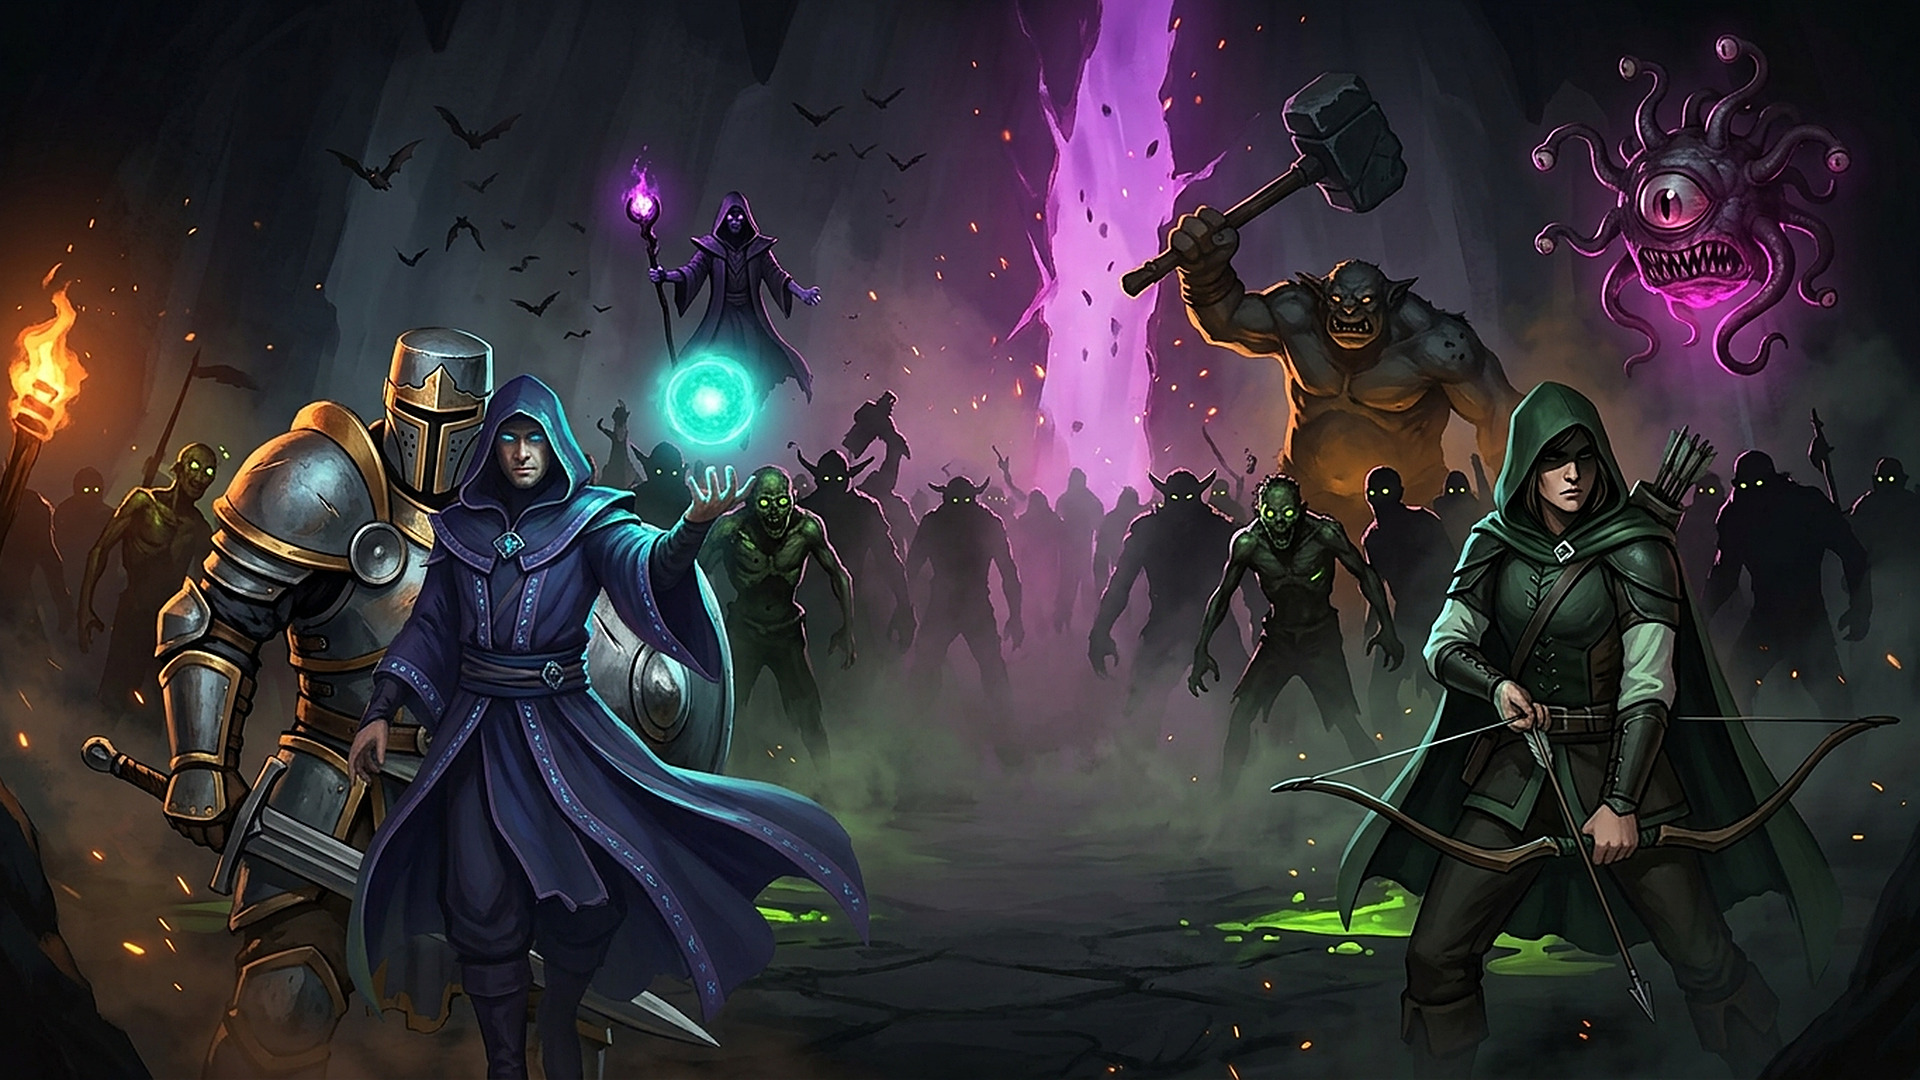
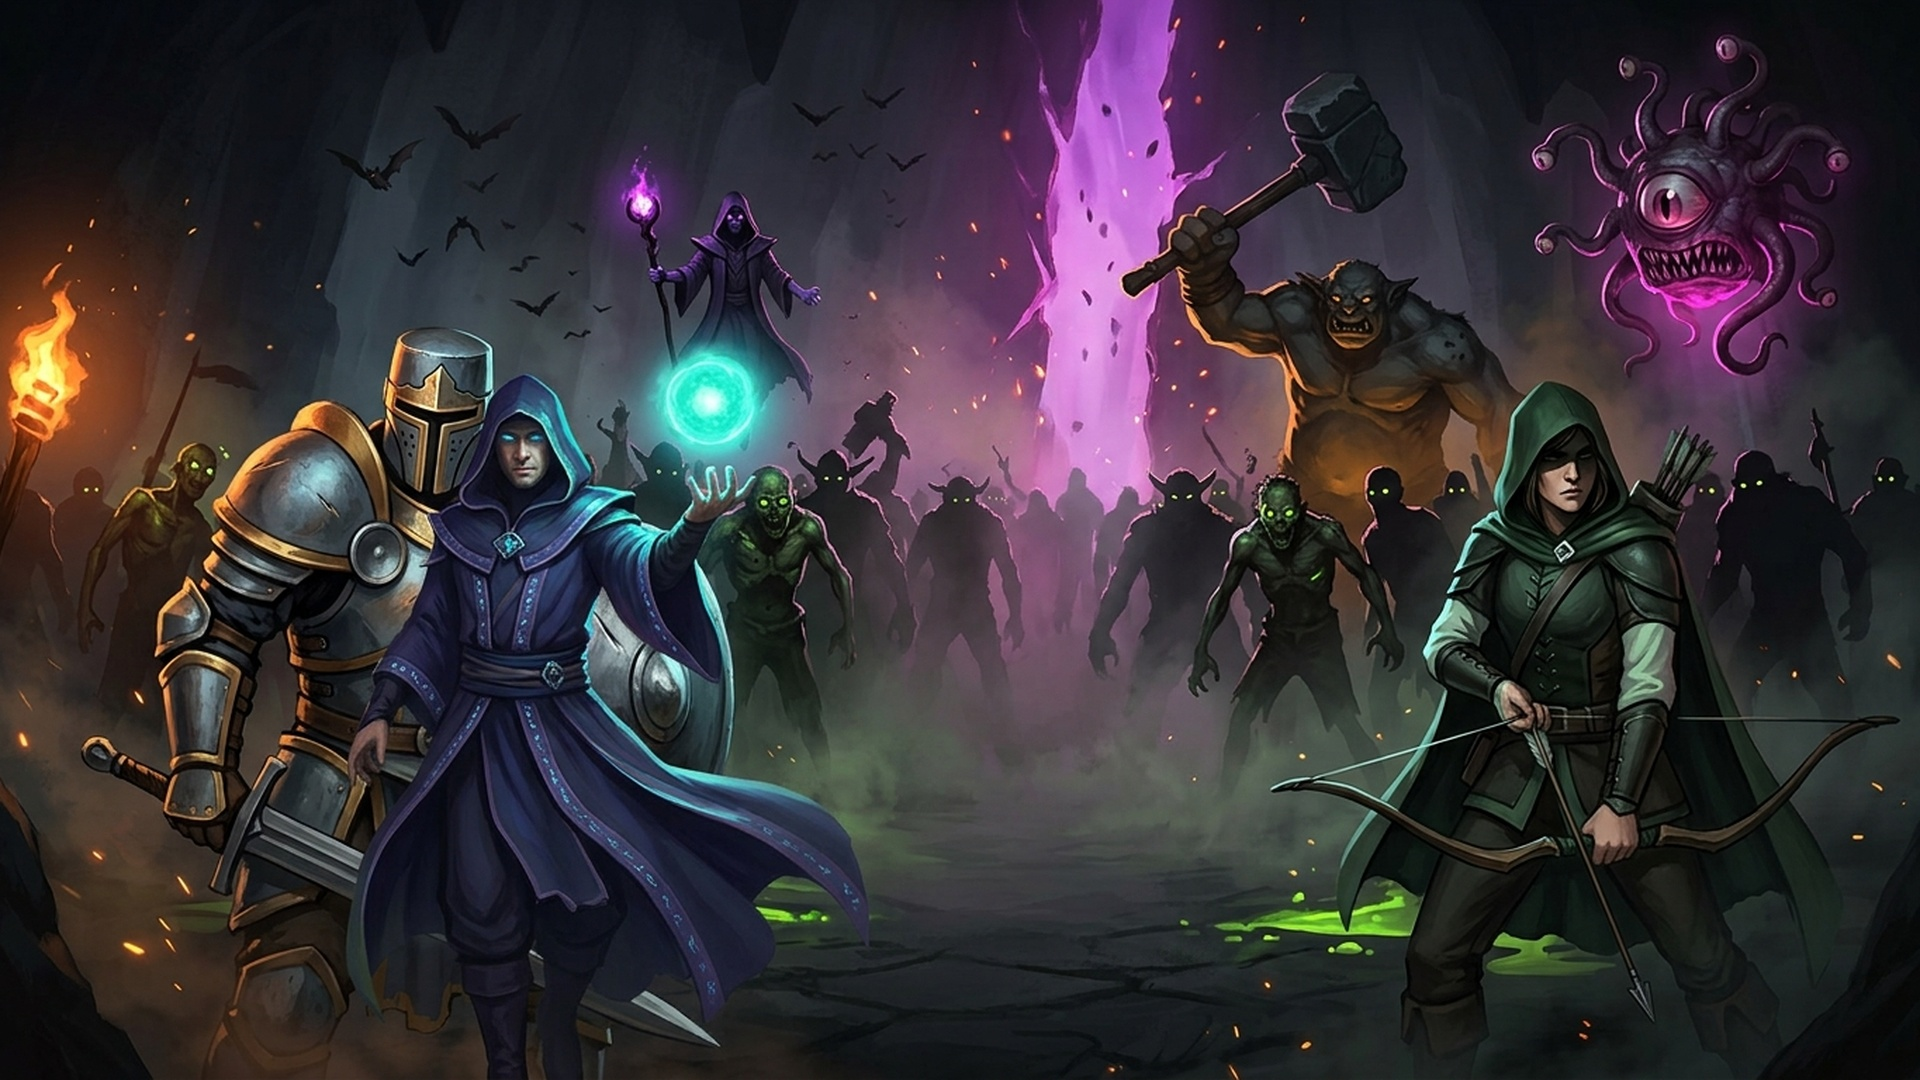
v1.89.3

Changed region(s): [[0.6875, 0.7028, 0.7188, 0.7333], [0.2188, 0.3361, 0.25, 0.3667], [0.1875, 0.3667, 0.2188, 0.3972]]

diff --git a/public/style.css b/public/style.css
@@ -11,29 +11,30 @@ canvas#game{position:fixed;inset:0;width:100vw;height:100vh;display:block;backgr
 /* v1.86.2 — il menu sta IN ALTO, non al centro: la card e' corta dalla 1.86.1 e centrata verticalmente
    lasciava una fascia vuota sotto. In alto, l'illustrazione respira sotto il pannello invece che
    attorno. */
-#menu{overflow:hidden;justify-content:flex-start;padding-top:4vh}
+#menu,#lobby{overflow:hidden}
+#menu{justify-content:flex-start;padding-top:4vh}
 #menu .menu-card{max-height:none}
 /* L'artwork sta su un suo strato: cosi' puo' respirare (deriva lentissima, 48s) senza trascinarsi
    dietro il pannello. Se il file manca resta il gradiente scuro e il menu funziona identico. */
-#menu::after{content:'';position:absolute;inset:-2.5%;z-index:0;pointer-events:none;
+#menu::after,#lobby::after{content:'';position:absolute;inset:-2.5%;z-index:0;pointer-events:none;
   background:url('/assets/art/menu_key_art.jpg') center 44%/cover no-repeat;
   animation:artDrift 48s ease-in-out infinite alternate}
 @keyframes artDrift{from{transform:scale(1.0) translate3d(0,0,0)}to{transform:scale(1.055) translate3d(-1.1%,-0.9%,0)}}
 /* La velatura scurisce LA FASCIA CENTRALE — quella dietro al pannello — e lascia accese le due fasce
    laterali, che sono l'unica parte dell'illustrazione che si vede davvero. La prima versione faceva
    l'opposto (vignettatura radiale: centro aperto, bordi spenti) e spegneva proprio gli eroi. */
-#menu::before{content:'';position:absolute;inset:0;z-index:1;pointer-events:none;background:
+#menu::before,#lobby::before{content:'';position:absolute;inset:0;z-index:1;pointer-events:none;background:
   linear-gradient(90deg,rgba(5,6,10,.10) 0%,rgba(5,6,10,.06) 16%,rgba(5,6,10,.42) 34%,rgba(5,6,10,.62) 50%,rgba(5,6,10,.42) 66%,rgba(5,6,10,.06) 84%,rgba(5,6,10,.10) 100%),
   linear-gradient(180deg,rgba(5,6,10,.52) 0%,rgba(5,6,10,.04) 26%,rgba(5,6,10,.14) 58%,rgba(5,6,10,.82) 100%),
   radial-gradient(1500px 950px at 50% 50%,rgba(5,6,10,0) 58%,rgba(5,6,10,.30) 84%,rgba(5,6,10,.60) 100%)}
-#menu>*{position:relative;z-index:2}
+#menu>*,#lobby>*{position:relative;z-index:2}
 .menu-card{width:min(560px,92vw);max-height:92vh;overflow:auto;background:linear-gradient(180deg,rgba(17,21,36,.70),rgba(8,11,22,.86));backdrop-filter:blur(16px) saturate(1.25);-webkit-backdrop-filter:blur(16px) saturate(1.25);border:1px solid rgba(146,164,214,.20);border-radius:var(--radius);padding:26px 28px;
   box-shadow:0 40px 110px rgba(0,0,0,.78),0 0 60px rgba(0,240,200,.05),inset 0 1px 0 rgba(255,255,255,.07)}
 /* un filo d'oro in cima al pannello: e' quello che lo stacca dall'illustrazione senza incorniciarlo */
 .menu-card{position:relative}
 .menu-card::before{content:'';position:absolute;left:14%;right:14%;top:-1px;height:1px;pointer-events:none;
   background:linear-gradient(90deg,transparent,rgba(255,176,32,.75),transparent)}
-#menu .menu-card{animation:cardIn .5s cubic-bezier(.16,.84,.44,1) both}
+#menu .menu-card,#lobby .menu-card{animation:cardIn .5s cubic-bezier(.16,.84,.44,1) both}
 @keyframes cardIn{from{opacity:0;transform:translateY(14px) scale(.985)}to{opacity:1;transform:none}}
 h1{font-size:46px;margin:0 0 4px;letter-spacing:4px;font-weight:800;background:linear-gradient(90deg,#7cc7ff,#00f0c8);-webkit-background-clip:text;background-clip:text;color:transparent;
   filter:drop-shadow(0 2px 10px rgba(0,240,200,.28)) drop-shadow(0 6px 26px rgba(0,0,0,.9))}

diff --git a/shared/constants.js b/shared/constants.js
@@ -6,7 +6,7 @@
 })(typeof self !== 'undefined' ? self : this, function () {
   'use strict';
   const C = {
-    VERSION: '1.89.2',
+    VERSION: '1.89.3',
     // v1.66 — limiti del fendente in mischia (misurati: senza cap l'arco valeva 6x le uccisioni di un tiratore)
     MELEE_MAX_TARGETS: 5, MELEE_SPLASH: 0.55,
     // v1.51 — level up fra le ondate

diff --git a/ARTWORK.md b/ARTWORK.md
@@ -5,7 +5,7 @@ da dare al generatore di immagini. Il codice che le usa e' gia' scritto: basta m
 
 | Illustrazione | File | Formato | Stato |
 |---|---|---|---|
-| Sfondo del menu iniziale | `public/assets/art/menu_key_art.jpg` | **1920×1080** (16:9) | **rifatta** (v1.89.2) — la prima versione resta in `menu_key_art_v1.png` |
+| Sfondo del menu iniziale **e della sala d'attesa** | `public/assets/art/menu_key_art.jpg` | **1920×1080** (16:9) | **rifatta** (v1.89.3) — nativa a 1920×1080, usata senza ricomprimere. La prima versione resta in `menu_key_art_v1.png` |
 | Scheda del bestiario | `public/assets/art/roster_overview.png` | 1024×1536 | fatta |
 | Concept del Troll | `public/assets/art/cave_brute_concept.png` | — | fatto |
 
@@ -14,8 +14,9 @@ da dare al generatore di immagini. Il codice che le usa e' gia' scritto: basta m
 ## 🖼 Sfondo del menu iniziale *(v1.86)*
 
 ### Dove va
-`public/assets/art/menu_key_art.jpg` — **esattamente questo nome**. Il CSS lo carica da solo; se il file non
-c'e' resta il gradiente scuro di prima e non si rompe niente.
+`public/assets/art/menu_key_art.jpg` — **esattamente questo nome**. Il CSS lo carica da solo, **sia nel menu
+iniziale sia nella sala d'attesa** (`#menu` e `#lobby` condividono la stessa regola dalla v1.89.3); se il
+file non c'e' resta il gradiente scuro di prima e non si rompe niente.
 
 > ✅ **Rifatta in v1.89.2.** La seconda illustrazione arrivava a **1376×768**: portata a **1920×1080** e
 > salvata a qualita' 92 (**521 KB**). La prima versione resta in `menu_key_art_v1.png`.

diff --git a/README.md b/README.md
@@ -1,4 +1,4 @@
-# ⚔ DUNGEON RIFT v1.89.2 — Roguelike Co-op Multiplayer 2D
+# ⚔ DUNGEON RIFT v1.89.3 — Roguelike Co-op Multiplayer 2D
 
 Roguelike frenetico per **fino a 6 giocatori**. Motore **custom a dipendenze zero** (Node.js + Canvas 2D):
 niente `npm install`, niente asset esterni — grafica, musica ed effetti sono **generati proceduralmente**.
@@ -63,6 +63,8 @@ Test: `npm test`
   Sta in `public/assets/art/menu_key_art.jpg` (il brief e il prompt sono in **ARTWORK.md**).
 - **🪟 Il pannello diventa vetro**: sfondo semitrasparente con sfocatura, filo d'oro in cima, entrata in
   dissolvenza. L'illustrazione si vede *attraverso* il menu invece di stare dietro una lastra.
+- **🚪 Dalla v1.89.3 lo sfondo c'e' anche nella sala d'attesa** (quella con *AVVIA LA RUN*): stesse regole,
+  niente CSS duplicato.
 - **La velatura scurisce solo la fascia centrale**, quella dietro al pannello: le due fasce laterali —
   l'unica parte dell'artwork che si vede davvero — restano accese.
 - **🌬 L'immagine respira**: deriva lentissima (48s, avanti e indietro) e la faglia del titolo pulsa.

diff --git a/CHANGELOG.md b/CHANGELOG.md
@@ -2,6 +2,19 @@
 
 Tutte le modifiche rilevanti del progetto, versione per versione (dalla più recente).
 
+### [1.89.3] — 2026-09-05 · "Anche in sala d'attesa"
+
+Illustrazione nuova — la stessa scena, disegnata meglio: la faglia piu' alta e piu' viva, il troll e il
+beholder piu' definiti, i tre eroi con piu' contrasto. Arriva gia' a **1920×1080**, quindi va nel gioco
+**senza ricomprimerla**: ricomprimere un JPEG che e' gia' della misura giusta si porta via qualita' e non
+restituisce niente (520 KB, uguali).
+
+E l'artwork adesso c'e' anche nella **sala d'attesa**, quella con *AVVIA LA RUN*: `#menu` e `#lobby`
+condividono le stesse tre regole (lo strato dell'immagine, la velatura, il pannello di vetro), quindi le due
+schermate sono lo stesso posto invece che due fondali diversi — e non c'e' CSS duplicato da tenere allineato.
+
+---
+
 ### [1.89.2] — 2026-09-05 · "Il menu cambia quadro"
 
 Illustrazione nuova nel menu: i tre eroi in primo piano — guerriero e mago a sinistra, ladro a destra — con
